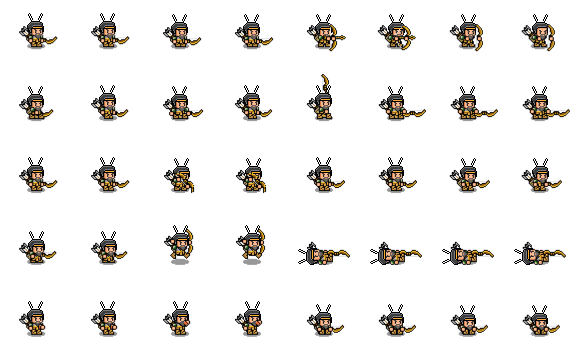
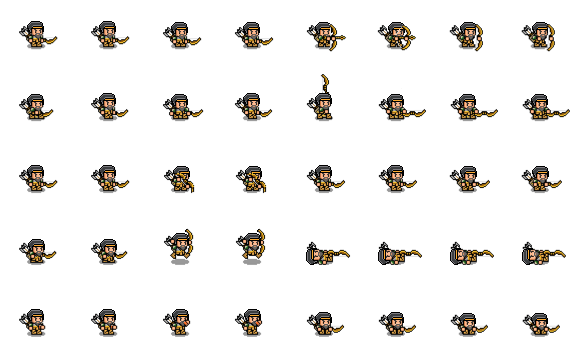
yellow turban archer

diff --git a/src/data/Battles.js b/src/data/Battles.js
@@ -17,10 +17,10 @@ export const BATTLES = {
             { id: 'rebel1', r: 3, q: 2, type: 'enemy_soldier' },
             { id: 'rebel2', r: 3, q: 3, type: 'enemy_soldier' },
             { id: 'rebel3', r: 3, q: 4, type: 'enemy_soldier' },
-            { id: 'rebel4', r: 3, q: 5, type: 'enemy_soldier' },
+            { id: 'rebel4', r: 3, q: 5, type: 'enemy_soldier', templateId: 'rebel_archer' },
             { id: 'rebel5', r: 3, q: 6, type: 'enemy_soldier' },
             { id: 'rebel6', r: 1, q: 3, type: 'enemy_soldier' },
-            { id: 'rebel7', r: 1, q: 4, type: 'enemy_soldier' },
+            { id: 'rebel7', r: 1, q: 4, type: 'enemy_soldier', templateId: 'rebel_archer' },
             { id: 'rebel8', r: 1, q: 5, type: 'enemy_soldier' },
             // Government soldiers (right side, retreating) - halved for faster combat
             { id: 'soldier1', r: 8, q: 3, type: 'imperial_soldier' },
@@ -67,7 +67,7 @@ export const BATTLES = {
             { id: 'ally3', r: 1, q: 5, type: 'allied_soldier' },
             { id: 'dengmao', r: 8, q: 4, type: 'enemy_captain' },
             { id: 'chengyuanzhi', r: 9, q: 5, type: 'enemy_captain' },
-            { id: 'rebel1', r: 7, q: 3, type: 'enemy_soldier_weak' },
+            { id: 'rebel1', r: 7, q: 3, type: 'enemy_soldier_weak', templateId: 'rebel_archer' },
             { id: 'rebel2', r: 7, q: 5, type: 'enemy_soldier' }
         ],
         victoryCondition: {
@@ -104,12 +104,13 @@ export const BATTLES = {
             { id: 'ally1', r: 2, q: 2, type: 'allied_soldier' },
             { id: 'ally2', r: 1, q: 0, type: 'allied_soldier' },
             { id: 'ally3', r: 0, q: 1, type: 'allied_soldier' },
-            // Generate 20 rebels - half weak (level 1, 2HP), half normal (level 2, 3HP)
+            // Generate 20 rebels - half weak, half normal; ~1/5 are archers (at least 1)
             ...Array.from({length: 20}, (_, i) => ({ 
                 id: `rebel_pre_${i}`, 
                 r: 6 + Math.floor(i / 5), 
                 q: 1 + (i % 8), 
-                type: i % 2 === 0 ? 'enemy_soldier_weak' : 'enemy_soldier' 
+                type: i % 2 === 0 ? 'enemy_soldier_weak' : 'enemy_soldier',
+                templateId: i % 5 === 0 ? 'rebel_archer' : 'rebel'
             }))
         ],
         victoryCondition: {
@@ -171,8 +172,8 @@ export const BATTLES = {
             { id: 'rebel_corpse2', r: 8, q: 6, type: 'enemy_soldier', isDead: true },
             { id: 'rebel_corpse3', r: 9, q: 4, type: 'enemy_soldier', isDead: true },
             { id: 'rebel_corpse4', r: 10, q: 5, type: 'enemy_soldier', isDead: true },
-            // Rebels that will be executed in the cutscene
-            { id: 'rebel_cleanup1', r: 7, q: 4, type: 'enemy_soldier' },
+            // Rebels that will be executed in the cutscene (one archer)
+            { id: 'rebel_cleanup1', r: 7, q: 4, type: 'enemy_soldier', templateId: 'rebel_archer' },
             { id: 'rebel_cleanup2', r: 7, q: 6, type: 'enemy_soldier' }
         ],
         isCutscene: true,
@@ -405,14 +406,14 @@ export const BATTLES = {
             { id: 'dead_guard1', r: 5, q: 8, type: 'allied_soldier', isDead: true, frame: 2 },
             { id: 'dead_guard2', r: 7, q: 8, type: 'allied_soldier', isDead: true, frame: 2 },
             { id: 'dead_guard3', r: 6, q: 9, type: 'allied_soldier', isDead: true, frame: 2 },
-            // Yellow Turbans attacking Dong Zhuo - Spread out more
+            // Yellow Turbans attacking Dong Zhuo - Spread out more (~1/5 archers)
             { id: 'rebel1', r: 4, q: 4, type: 'enemy_soldier_weak' },
-            { id: 'rebel2', r: 6, q: 3, type: 'enemy_soldier' },
+            { id: 'rebel2', r: 6, q: 3, type: 'enemy_soldier', templateId: 'rebel_archer' },
             { id: 'rebel3', r: 8, q: 4, type: 'enemy_soldier_weak' },
             { id: 'rebel4', r: 5, q: 6, type: 'enemy_soldier' },
             { id: 'rebel5', r: 3, q: 6, type: 'enemy_soldier_weak' },
             { id: 'rebel6', r: 9, q: 6, type: 'enemy_soldier' },
-            { id: 'rebel7', r: 4, q: 7, type: 'enemy_soldier' },
+            { id: 'rebel7', r: 4, q: 7, type: 'enemy_soldier', templateId: 'rebel_archer' },
             { id: 'rebel8', r: 8, q: 7, type: 'enemy_soldier_weak' },
             { id: 'rebel9', r: 3, q: 4, type: 'enemy_soldier' },
             { id: 'rebel10', r: 9, q: 4, type: 'enemy_soldier_weak' },
@@ -523,7 +524,7 @@ export const BATTLES = {
             // In this battle, Zhang Bao and Zhang Liang are normal enemies and must be defeated.
             { id: 'zhangbao', r: 6, q: 1, type: 'zhang_bao' },
             { id: 'zhangliang', r: 5, q: 1, type: 'zhang_liang' },
-            { id: 'rebel1', r: 7, q: 2, type: 'enemy_soldier' },
+            { id: 'rebel1', r: 7, q: 2, type: 'enemy_soldier', templateId: 'rebel_archer' },
             { id: 'rebel2', r: 6, q: 2, type: 'enemy_soldier' },
             { id: 'rebel3', r: 5, q: 2, type: 'enemy_soldier' }
         ],
@@ -730,10 +731,12 @@ export const UNIT_TEMPLATES = {
         'dead_guard': { ...SOLDIER_VARIANTS.imperial_guard_dead }
     },
     'enemy_soldier': {
-        'rebel': { name: 'Yellow Turban', imgKey: 'yellowturban', hp: 3, moveRange: 3, attacks: ['bash'], faction: 'enemy', level: 2 }
+        'rebel': { name: 'Yellow Turban', imgKey: 'yellowturban', hp: 3, moveRange: 3, attacks: ['bash'], faction: 'enemy', level: 2 },
+        'rebel_archer': { name: 'Yellow Turban Archer', imgKey: 'yellowturbanarcher', hp: 3, moveRange: 3, attacks: ['arrow_shot'], faction: 'enemy', level: 2 }
     },
     'enemy_soldier_weak': {
-        'rebel': { name: 'Yellow Turban', imgKey: 'yellowturban', hp: 2, moveRange: 3, attacks: ['bash'], faction: 'enemy', level: 1 }
+        'rebel': { name: 'Yellow Turban', imgKey: 'yellowturban', hp: 2, moveRange: 3, attacks: ['bash'], faction: 'enemy', level: 1 },
+        'rebel_archer': { name: 'Yellow Turban Archer', imgKey: 'yellowturbanarcher', hp: 2, moveRange: 3, attacks: ['arrow_shot'], faction: 'enemy', level: 1 }
     },
     'imperial_soldier': {
         'soldier': { ...SOLDIER_VARIANTS.imperial_soldier },

diff --git a/src/scenes/CustomBattleMenuScene.js b/src/scenes/CustomBattleMenuScene.js
@@ -43,6 +43,7 @@ export class CustomBattleMenuScene extends BaseScene {
             { name: 'Lu Zhi', imgKey: 'zhoujing', type: 'commander', templateId: 'luzhi' },
             { name: 'Dong Zhuo', imgKey: 'dongzhuo', type: 'warlord', templateId: 'dongzhuo' },
             { name: 'Yellow Turban', imgKey: 'yellowturban', type: 'enemy_soldier', templateId: 'rebel' },
+            { name: 'Yellow Turban Archer', imgKey: 'yellowturbanarcher', type: 'enemy_soldier', templateId: 'rebel_archer' },
             { name: 'Deng Mao', imgKey: 'dengmao', type: 'enemy_captain', templateId: 'dengmao' },
             { name: 'Cheng Yuanzhi', imgKey: 'chengyuanzhi', type: 'enemy_captain', templateId: 'chengyuanzhi' },
             { name: 'Archer', imgKey: 'archer', type: 'enemy_soldier', templateId: 'rebel', isArcher: true, hp: 2 },

diff --git a/src/main.js b/src/main.js
@@ -540,6 +540,7 @@ async function init() {
                 bandit1: 'assets/characters/088_qiangdao01.png',
                 bandit2: 'assets/characters/089_qiangdao02.png',
                 archer: 'assets/characters/098_archer.png',
+                yellowturbanarcher: 'assets/characters/100_yellowturbanarcher.png',
                 crossbowman: 'assets/characters/099_crossbowman.png',
                 zhangjiao: 'assets/characters/005_zhangjiao.png',
                 zhangbao: 'assets/characters/006_zhangbao.png',

diff --git a/src/data/Translations.js b/src/data/Translations.js
@@ -628,6 +628,7 @@ export const CHARACTER_NAMES = {
     'Soldier': { en: 'Soldier', zh: '士兵' },
     'Cavalry': { en: 'Cavalry', zh: '骑兵' },
     'Yellow Turban': { en: 'Yellow Turban', zh: '黄巾军' },
+    'Yellow Turban Archer': { en: 'Yellow Turban Archer', zh: '黄巾弓手' },
     'Imperial Escort': { en: 'Imperial Escort', zh: '官军护卫' },
     'Qingzhou Guard': { en: 'Qingzhou Guard', zh: '青州守卫' },
     'Archer': { en: 'Archer', zh: '弓箭手' },
